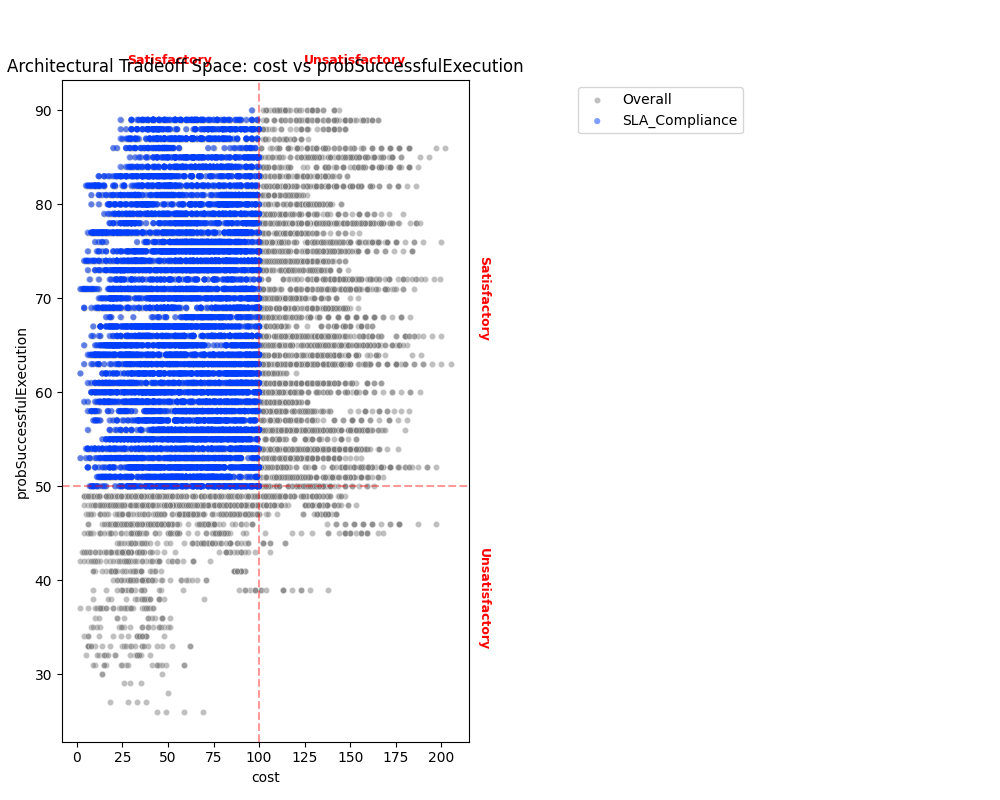
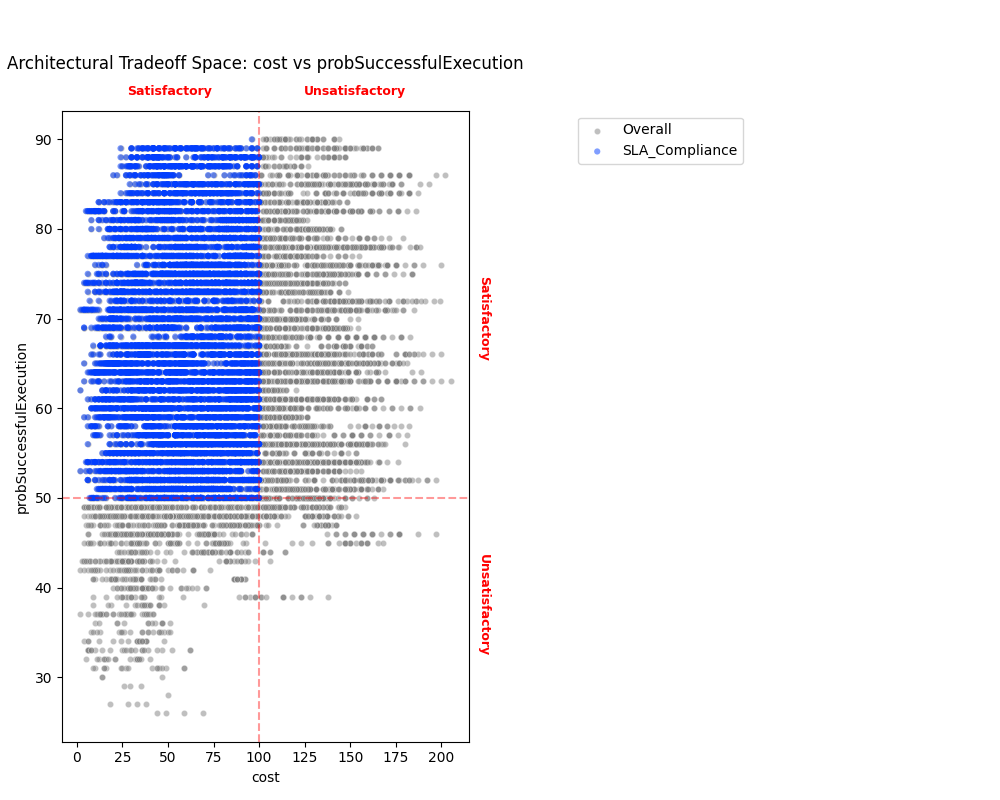
feat(viz): Refine 2D objective space plots with show_overall toggle and optimized title placement

diff --git a/adept/analysis/visualization.py b/adept/analysis/visualization.py
@@ -109,6 +109,7 @@ def show_quality_objective_space(
     y_metric: str,
     schemes: List[DiscretizationScheme],
     highlight_indices_map: Optional[Dict[str, np.ndarray]] = None,
+    show_overall: bool = True,
     alpha: float = 0.5,
     figsize: tuple = (10, 8)
 ) -> plt.Figure:
@@ -121,7 +122,8 @@ def show_quality_objective_space(
         y_metric: Name of the metric for Y axis.
         schemes: List of DiscretizationScheme objects.
         highlight_indices_map: Optional map of {label: indices} to highlight in different colors.
-        alpha: Transparency for the default points.
+        show_overall: Whether to show the gray background of all points.
+        alpha: Transparency for the points.
         figsize: Figure size.
         
     Returns:
@@ -129,11 +131,12 @@ def show_quality_objective_space(
     """
     fig, ax = plt.subplots(figsize=figsize)
     
-    # 1. Plot background (all points)
-    sns.scatterplot(
-        data=outcomes_df, x=x_metric, y=y_metric, 
-        ax=ax, color='gray', alpha=alpha, label='Overall', s=20
-    )
+    # 1. Plot background (all points) if requested
+    if show_overall:
+        sns.scatterplot(
+            data=outcomes_df, x=x_metric, y=y_metric, 
+            ax=ax, color='gray', alpha=alpha, label='Overall', s=20
+        )
     
     # 2. Draw segmentation lines and axis labels
     line_color = 'red'
@@ -184,7 +187,8 @@ def show_quality_objective_space(
                     ax=ax, color=colors[i], label=label, s=20, alpha=alpha, edgecolors='none'
                 )
 
-    ax.set_title(f"Architectural Tradeoff Space: {x_metric} vs {y_metric}")
+    # pad=30 pushes the title up to avoid interval labels
+    ax.set_title(f"Architectural Tradeoff Space: {x_metric} vs {y_metric}", pad=30)
     ax.legend(loc='upper left', bbox_to_anchor=(1.25, 1))
     
     # Adjust layout to make room for labels and legend

diff --git a/patterns/Toy_Example/analysis.py b/patterns/Toy_Example/analysis.py
@@ -78,9 +78,11 @@ def run_analysis(json_path: str, outdir: str, validate_integrity: bool = True) -
         outcome_cols = list(session.outcomes_df.columns)
         for x_col, y_col in itertools.combinations(outcome_cols, 2):
             try:
+                # Standard plot (with background)
                 fig = session.show_quality_objective_space(
                     x_col, y_col, 
-                    highlight_tradeoffs=tradeoffs
+                    highlight_tradeoffs=tradeoffs,
+                    show_overall=True
                 )
                 scatter_path = os.path.join(outdir, f"scatter_{x_col}_vs_{y_col}.png")
                 fig.savefig(scatter_path)
@@ -89,8 +91,6 @@ def run_analysis(json_path: str, outdir: str, validate_integrity: bool = True) -
                 print(f"Error generating scatter plot for {x_col} vs {y_col}: {e}")
 
         # 4. Discover
-        print(f"Skipping scenario discovery for faster plot testing...")
-        """
         print(f"Discovering scenarios for {len(tradeoffs)} tradeoffs...")
         # Only discover for the current batch of tradeoffs
         # We manually call discover for each because discover_tradeoffs iterates ALL tradeoffs
@@ -110,7 +110,6 @@ def run_analysis(json_path: str, outdir: str, validate_integrity: bool = True) -
             except Exception as e:
                 print(f"    Error analyzing {tradeoff.name}: {e}")
                 all_results[f"tradeoff_{tradeoff.name}_error"] = str(e)
-        """
 
     # 5. Export
     results_path = os.path.join(outdir, "analysis_results.json")

diff --git a/adept/core/coordinator.py b/adept/core/coordinator.py
@@ -125,12 +125,12 @@ class ArchSpaceCore:
         """
         return plot_tradeoff_distribution(outcomes_df, schemes, tradeoff=tradeoff, highlight_indices=highlight_indices, **kwargs)
 
-    def show_quality_objective_space(self, outcomes_df: pd.DataFrame, x_metric: str, y_metric: str, schemes: List[DiscretizationScheme], highlight_indices_map: Optional[Dict[str, np.ndarray]] = None, **kwargs) -> plt.Figure:
+    def show_quality_objective_space(self, outcomes_df: pd.DataFrame, x_metric: str, y_metric: str, schemes: List[DiscretizationScheme], highlight_indices_map: Optional[Dict[str, np.ndarray]] = None, show_overall: bool = True, **kwargs) -> plt.Figure:
         """Plots a 2D scatter of outcomes with tradeoff overlays and highlighting.
         
         Delegates to analysis.visualization.
         """
-        return show_quality_objective_space(outcomes_df, x_metric, y_metric, schemes, highlight_indices_map=highlight_indices_map, **kwargs)
+        return show_quality_objective_space(outcomes_df, x_metric, y_metric, schemes, highlight_indices_map=highlight_indices_map, show_overall=show_overall, **kwargs)
 
 
 __all__ = ["ArchSpaceCore"]

diff --git a/adept/core/analysis_session.py b/adept/core/analysis_session.py
@@ -140,7 +140,7 @@ class PatternAnalysis:
             self.outcomes_df, self.schemes, tradeoff=tradeoff, highlight_indices=highlight_indices, **kwargs
         )
 
-    def show_quality_objective_space(self, x_metric: str, y_metric: str, highlight_tradeoffs: Optional[List[Tradeoff]] = None, **kwargs) -> plt.Figure:
+    def show_quality_objective_space(self, x_metric: str, y_metric: str, highlight_tradeoffs: Optional[List[Tradeoff]] = None, show_overall: bool = True, **kwargs) -> plt.Figure:
         """Plots a 2D scatter of outcomes with tradeoff overlays and highlighting."""
         highlight_indices_map = {}
         if highlight_tradeoffs:
@@ -151,5 +151,7 @@ class PatternAnalysis:
                     
         return self.coordinator.show_quality_objective_space(
             self.outcomes_df, x_metric, y_metric, self.schemes, 
-            highlight_indices_map=highlight_indices_map, **kwargs
+            highlight_indices_map=highlight_indices_map, show_overall=show_overall, **kwargs
         )
+
+    
